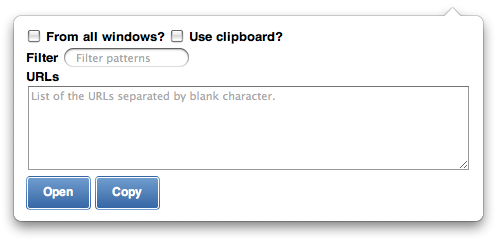
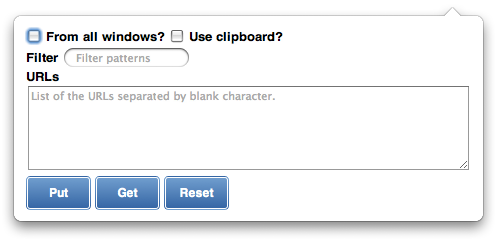
Add filtering
Filter when retrieving URLs to retrieve only the ones mathching the
patterns. Not that this a simple patterns, no regex of anything fancy.

This commit also:
  * Adds the :all: keyword to the fintering patters. This gets URLs
  from all opened windows.
  * Change buttons tags.
  * Remove unused code.
  * Adds a lot of commented and deletable code.

diff --git a/extension/script.js b/extension/script.js
@@ -30,13 +30,6 @@ function i18nalize() {
 	document.getElementById('urls').placeholder = chrome.i18n.getMessage('textareaPlaceholder');
 }
 
-function clear() {
-	document.getElementById('urls').value = '';
-	document.getElementById('filter').value = '';
-	document.getElementById('clipboard').checked = false;
-	document.getElementById('allWindows').checked = false;
-}
-
 
 /**
  * Populate the lists containing the URLs from tabs
@@ -45,10 +38,13 @@ function URLsFromTabs() {
 	chrome.windows.getCurrent(function(currentWindow) {
 		chrome.tabs.query({}, function(tabs) {
 			tabs.forEach(function(tab) {
-				if(tab.windowId == currentWindow.id) {
-					url_list['this'].push(tab.url);
-				} else {
-					url_list['others'].push(tab.url);
+				var id = 'this';
+				if(tab.windowId != currentWindow.id) {
+					id = 'others';
+				}
+
+				if(url_list[id].indexOf(tab.url) == -1) {
+					url_list[id].push(tab.url);
 				}
 			});
 		});
@@ -73,7 +69,7 @@ function boardToTabs() {
 		document.execCommand('paste');
 	}
 
-	box.value.split('\n').forEach(function(url) {
+	box.value.split(/\s/).forEach(function(url) {
 		url = url.trim();
 		if(url != "") {
 			// check it it contains the URL schema
@@ -97,11 +93,12 @@ function tabsToBoard() {
 
 	//console.log("url_list has %d elements", url_list.length);
 
-	if(document.getElementById('allWindows').checked) {
+	/*if(document.getElementById('allWindows').checked) {
 		box.value = url_list['this'].join('\n')+'\n'+url_list['others'].join('\n');
 	} else {
 		box.value = url_list['this'].join('\n');
-	}
+	}/**/
+	box.value = filterURLs().join('\n');
 
 	//console.log("text area value:\n%s", box.value);
 
@@ -113,6 +110,64 @@ function tabsToBoard() {
 	}
 }
 
+
+function filterURLs() {
+	var patterns = document.getElementById('filter').value.trim(); // TODO
+
+	if(patterns == '')
+		//return null; // no patterns bro!
+		return url_list['this'];
+
+	//console.log("Patterns is not empty");
+
+	patterns = patterns.split(/\s/);
+
+	var len = patterns.length;
+	//console.log("patterns.lenght is "+len);
+	//console.log(patterns);
+	patterns = patterns.filter(function(element, index, array){
+		//console.log(element+".toLowerCase() != \":all:\" =>"+(element.toLowerCase() != ":all:"));
+		return element.toLowerCase() != ":all:";
+	});
+	//console.log(patterns);
+
+	var unfiltered = url_list['this'];
+	if(len != patterns.length) {
+		// :all: has been found and removed.
+		// let's add URLs from other windows
+		//console.log("patterns.lenght is now "+patterns.length);
+		//console.log("Adding URLs from other windows");
+		len = patterns.lenght;
+		unfiltered = unfiltered.concat(url_list['others'].filter(function(element, index, array){
+				return unfiltered.indexOf(element) == -1;
+			})
+		);
+	}
+
+	/*patterns = patterns.filter(function(element, index, array){
+		return element.toLowerCase() != ":clipboard:";
+	});
+
+	var clipboard = len != patterns.length;/**/
+
+	if(patterns.length == 0)
+		return unfiltered;
+
+	var filtered = [];
+	patterns.forEach(function(pat, pat_index, pat_array){
+		unfiltered.filter(function(url, url_index, url_array){
+			// only keep the unmatche de iterate on less items
+			//console.log("Add "+url+" ? =>"+(url.indexOf(pat) != -1 && filtered.indexOf(url) == -1));
+			if(url.indexOf(pat) != -1 && filtered.indexOf(url) == -1) {
+				filtered.push(url);
+				return false;
+			}
+			return true;
+		});
+	});
+
+	return filtered;
+}
 
 /**
  * Add an event listener for the onload event y the HTML.
@@ -126,6 +181,5 @@ document.addEventListener('DOMContentLoaded', function() {
 	i18nalize();
 	document.getElementById('open').addEventListener('click', boardToTabs);
 	document.getElementById('copy').addEventListener('click', tabsToBoard);
-	document.getElementById('clear').addEventListener('click', clear);
 });
 

diff --git a/README.md b/README.md
@@ -1,11 +1,11 @@
 URLinator
 ===============================
 
-Many times I've wanted to copy the URLs from the pages I had opened to a text
-file, and I've always found my self doing it one by one. This may not be a big
-issue if there are only a few open tabs, but when you have many it become
-tiresome. For this reason (and because I wanted to try chrome.** API too) I
-decided to create this extension. The goal is to allow users to:
+Many times I've wanted to copy URLs from opened tabs to a text file, and I've
+always found my self doing it one by one. This may not be a big issue if there
+are only a few tabs opened, but when you have many it become tiresome. For this
+reason (and because I wanted to try chrome.* API) I decided to create URLinator.
+The goal is to allow users to:
 
 * Copy all URLs from the current window to a text area or to the clipboard.
 * Copy all URLs from all windows to a text area or to the clipboard.
@@ -15,12 +15,14 @@ new tabs in the current window.
     + URLs without an scheme (the _whatever://_ at the beginning) are treated as
 	  search terms and sent to Google search engine.
 
+In thinking about the clipboard thing so it may or may not be in the final version.
+
 Installation
 ------------
 
 For the time being the extension is not available on Chrome Web Store (and I
-don't know if it will ever be) so go to the [download page](URLinator/downloads "Download page")
-and grab the latest version.
+don't know if it will ever be) so go to the
+[download page](URLinator/downloads "Download page") and grab the latest version.
 
 Usage
 -----
@@ -41,16 +43,20 @@ This is how it works:
 * **Second checkbox:** allows interaction with the clipboard.
     - Checked: get and put content directly to the clipboard.
     - Unchecked: get and put content in the text area.
-* **Filter box:** allows to use words as filters when retrieving or opening URLs. **Not ready yet.**
+* **Filter box:** allows to use words as filters when retrieving or opening URLs.
+    - **:all:** is a special terms. If present retrieves URLs from all windows.
+	This is just for testing different aproaches to implement this behavioir.
 * **Textarea:** works as input and output (if the second checkbox is not selected).
-* **Open button:** opens new tabs with the URLs and search terms.
-* **Copy button:** grabs the URLs from the tabs.
+* **Put button:** opens new tabs with the URLs and search terms.
+* **Get button:** grabs the URLs from the tabs.
+* **Reset button:** reset the controls to their default values.
 
 ### Collecting URLs
 
 1. Click the extension button.
-2. Click the copy button.
-3. Do whatever you want with the content.
+2. Add filtering terms if needed
+3. Click the copy button.
+4. Do whatever you want with the content.
 
 **WARNING**: anything stored in textarea (and in the clipboard if the second checkbox is selected) is deleted!
 
